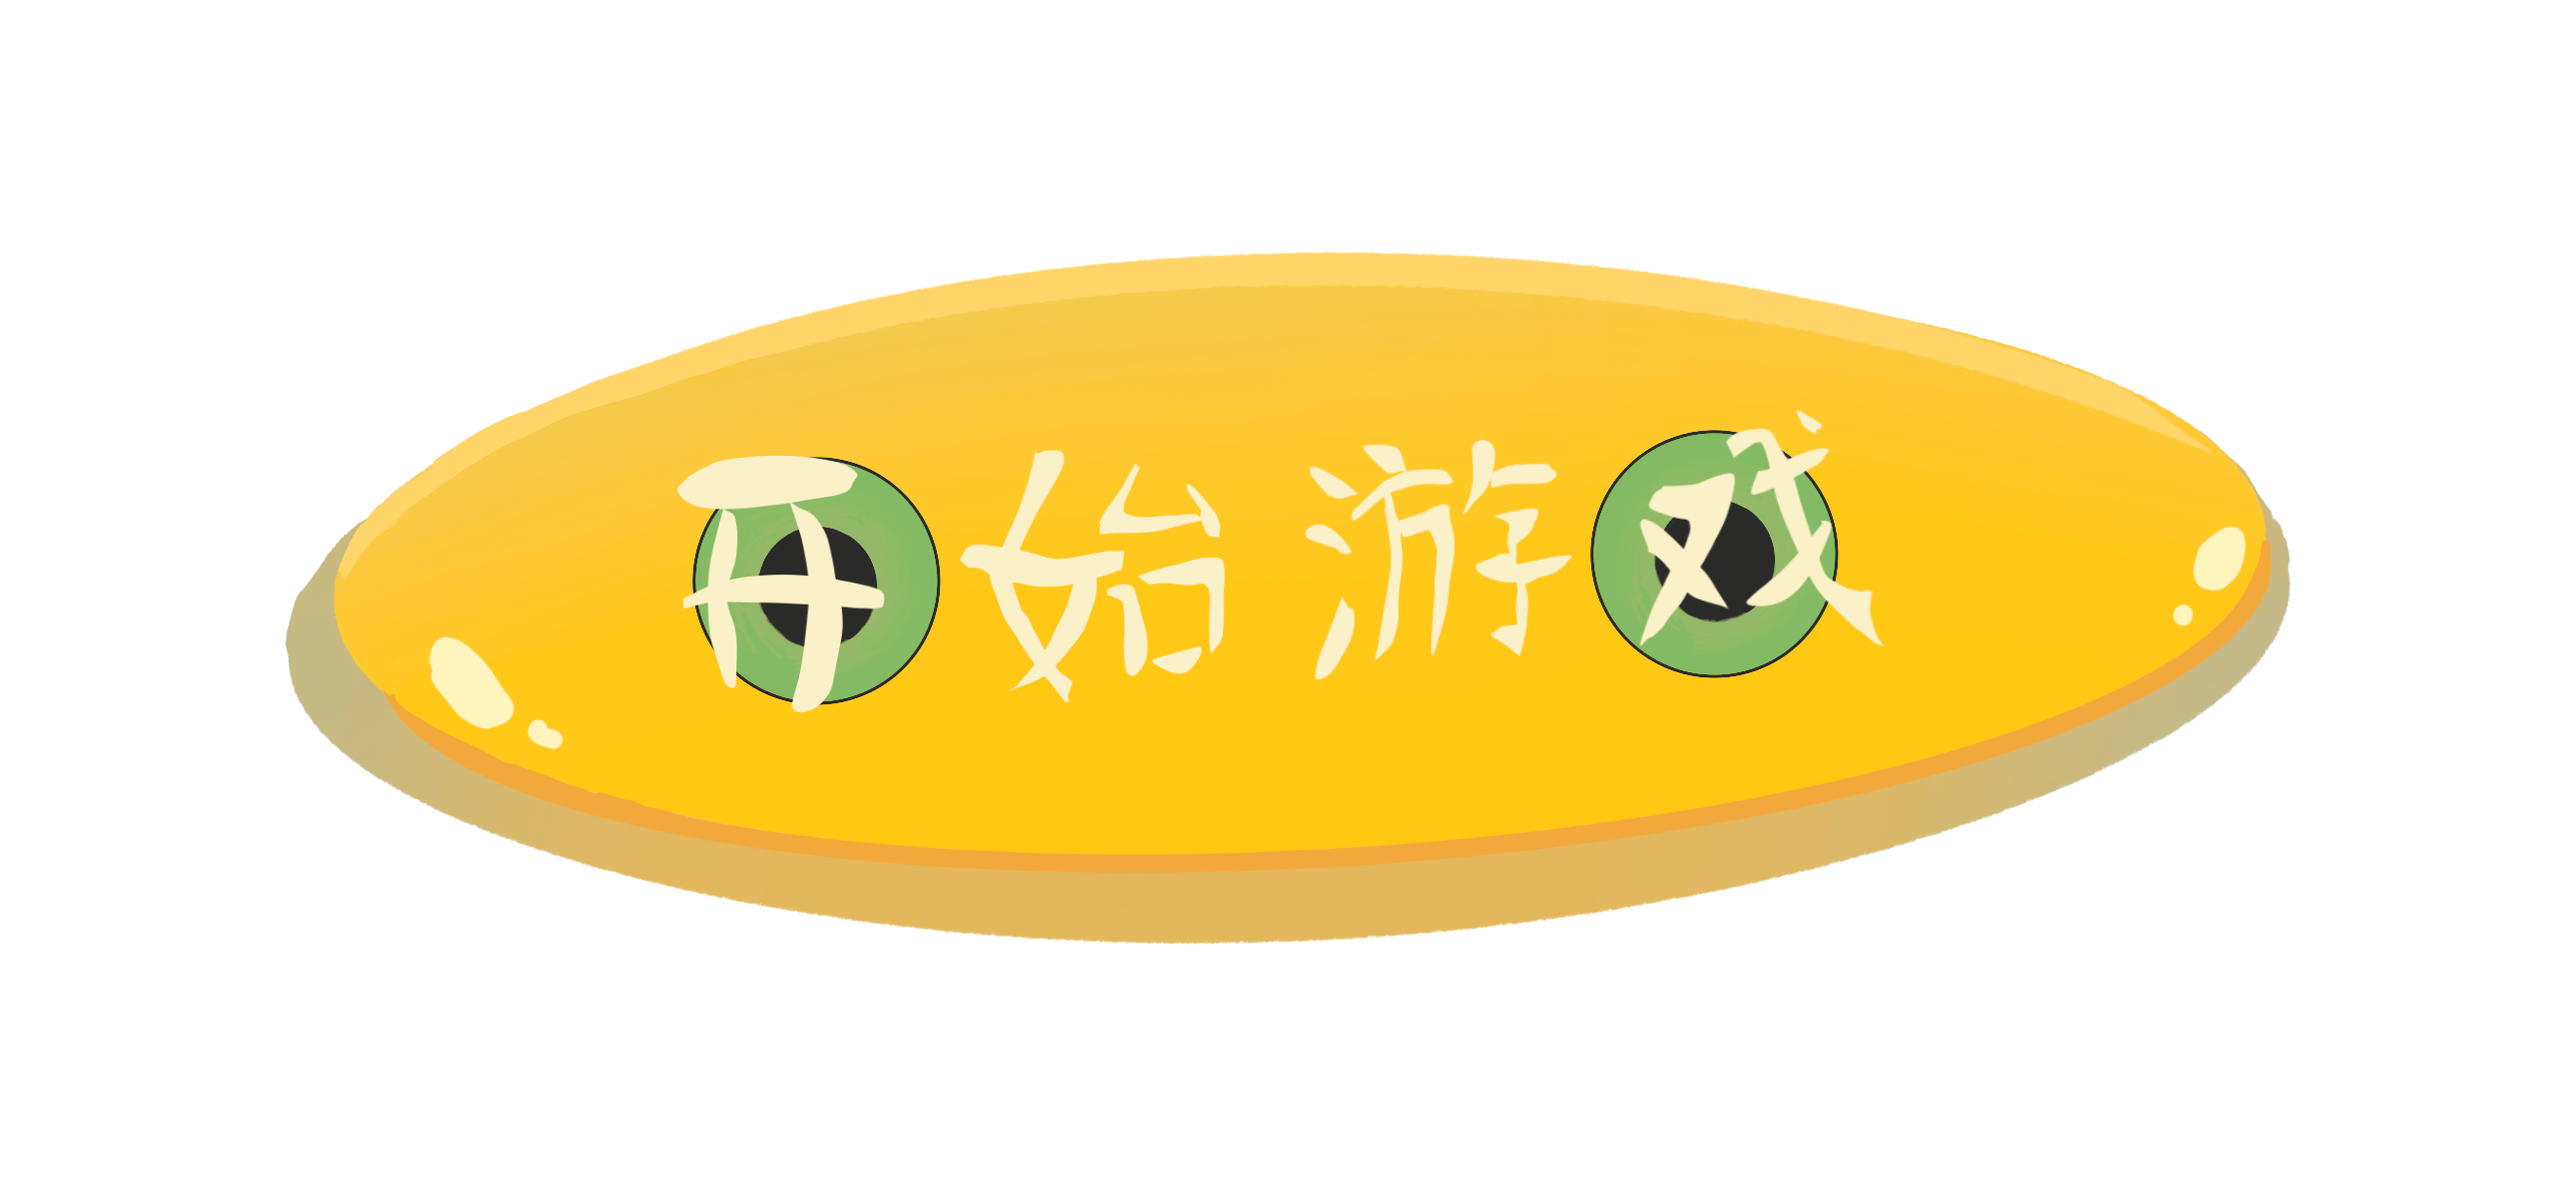
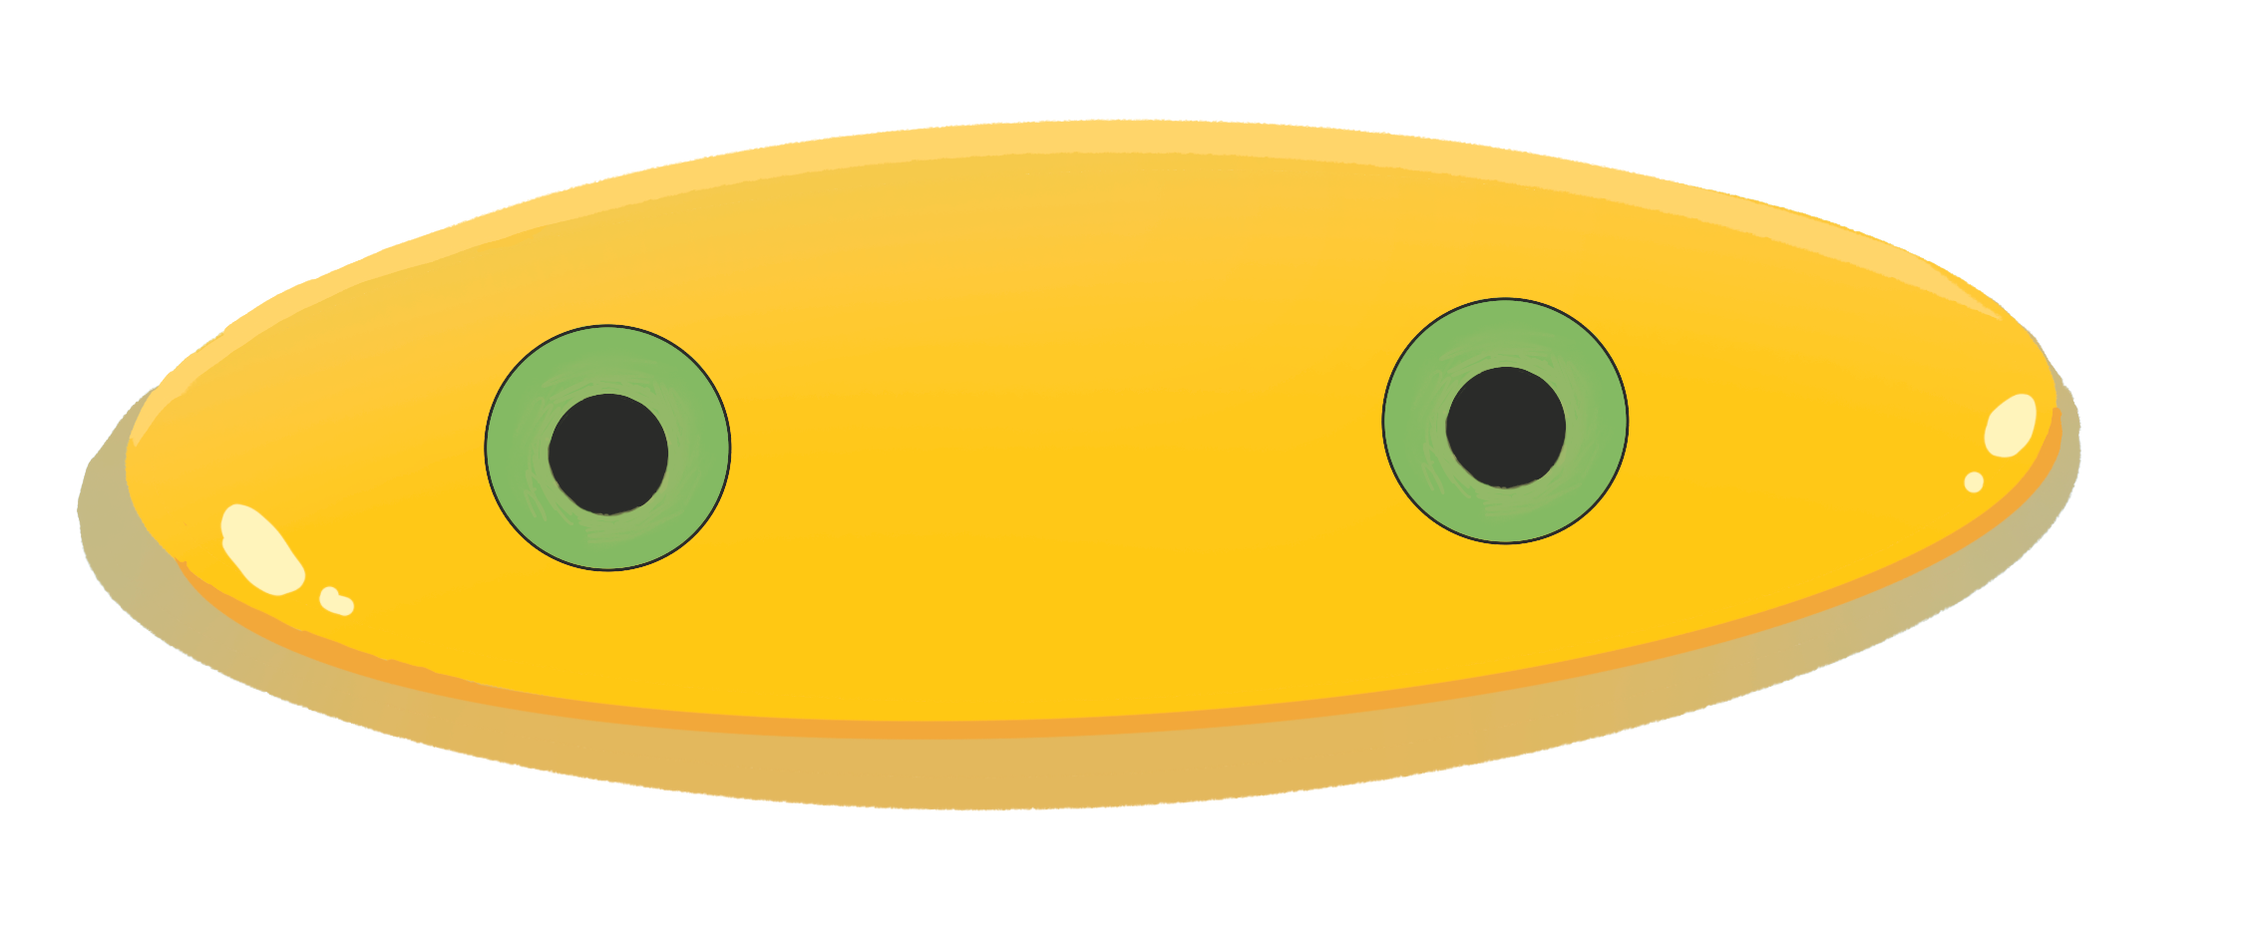
开始按钮保留原图眼睛：只 inpaint 擦除文字，眼睛与瞳孔完整保留；文字下沉避开眼睛

Changed region(s): [[0.0309, 0.1229, 0.9284, 0.8602]]

diff --git a/index.html b/index.html
@@ -623,7 +623,7 @@
     object-fit:contain; pointer-events:none;
     filter:drop-shadow(0 6px 10px rgba(180,110,0,.35));
   }
-  #btn-start span { position:relative; margin-top:16px; }   /* blob 视觉重心偏下，文字随之下沉 */
+  #btn-start span { position:relative; margin-top:44px; }   /* 眼睛在 blob 上方，文字沉到眼睛下面 */   /* blob 视觉重心偏下，文字随之下沉 */
   #btn-start:active { transform:scale(.94); animation:none; }
   @keyframes startPulse { 0%,100%{ transform:scale(1);} 50%{ transform:scale(1.05);} }
   /* 「选择关卡」次级按钮：比开始游戏小一号，颜色也让位（蓝色系） */
